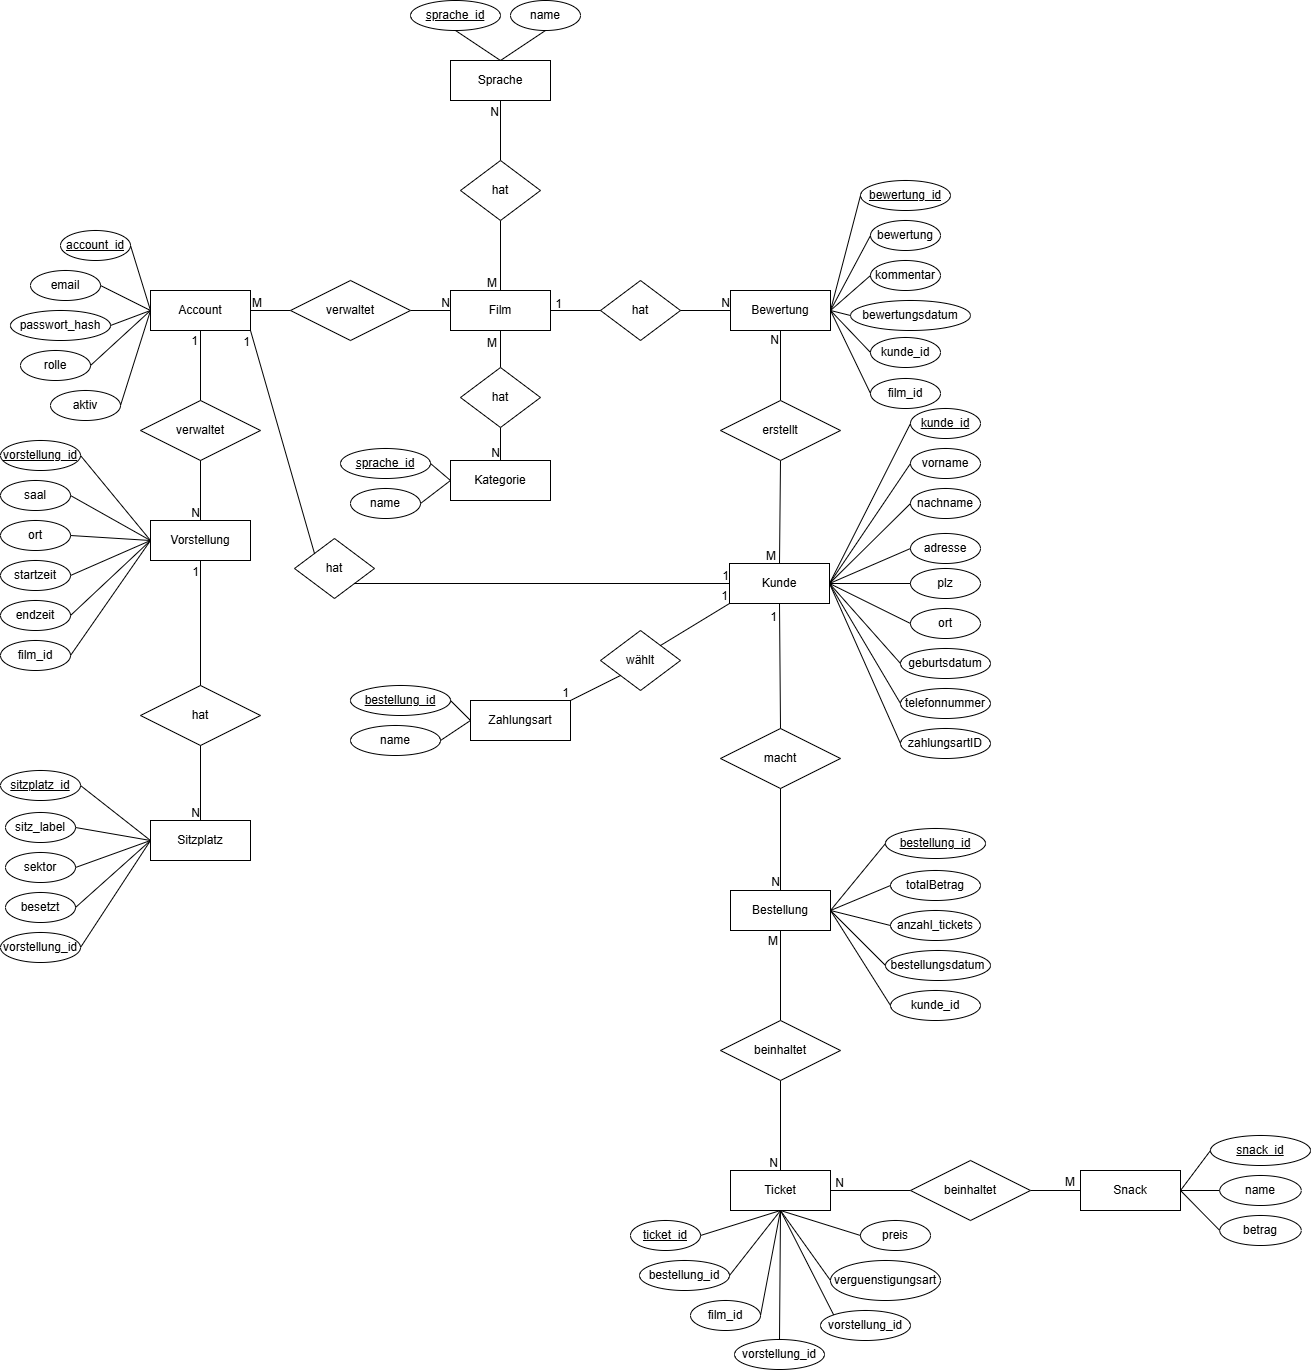
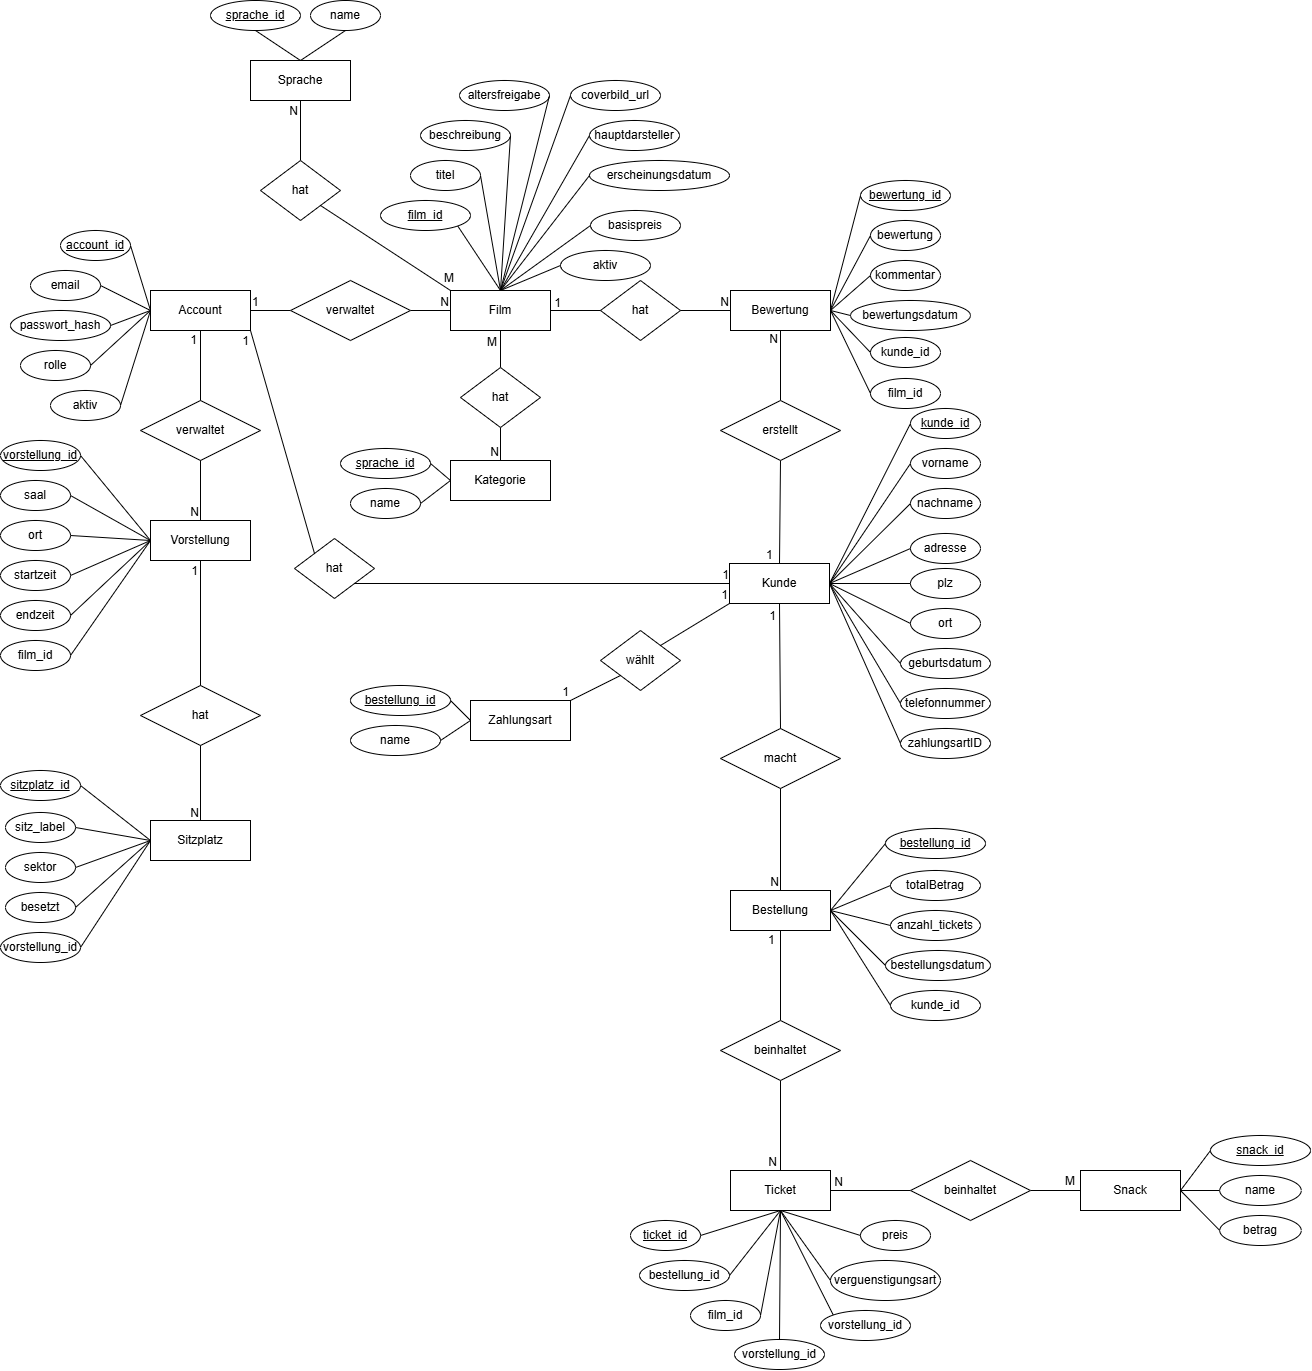
clean code, remove unused table from db

diff --git a/backend/seed.py b/backend/seed.py
@@ -13,7 +13,6 @@ from backend.models.orm import (
     FilmKategorie,
     FilmSprache,
     Film,
-    FilmlisteKunde,
     Kategorie,
     Kunde,
     KundenKategoriePraeferenz,
@@ -281,7 +280,7 @@ def seed_database() -> None:
         filme = _create_films(session, kategorien, sprachen)
         vorstellungen, sitzplaetze = _create_vorstellungen_and_seats(session, filme)
 
-        _create_association_rows(session, kunden, filme, kategorien, sprachen)
+        _create_association_rows(session, kunden, kategorien)
         bestellungen, tickets = _create_orders_and_tickets(session, kunden, filme, vorstellungen, sitzplaetze)
         _create_ticket_snacks(session, tickets, snacks)
         _create_ratings(session, kunden, filme)
@@ -488,30 +487,19 @@ def _create_vorstellungen_and_seats(
 def _create_association_rows(
     session: Session,
     kunden: list[Kunde],
-    filme: list[Film],
     kategorien: list[Kategorie],
-    sprachen: list[Sprache],
 ) -> None:
     items = [
         KundenKategoriePraeferenz(kunde_id=kunden[0].kunde_id, kategorie_id=kategorien[0].kategorie_id),
         KundenKategoriePraeferenz(kunde_id=kunden[1].kunde_id, kategorie_id=kategorien[1].kategorie_id),
-        FilmlisteKunde(kunde_id=kunden[0].kunde_id, film_id=filme[1].film_id),
     ]
     for relation in items:
-        if isinstance(relation, KundenKategoriePraeferenz):
-            exists = session.exec(
-                select(KundenKategoriePraeferenz).where(
-                    KundenKategoriePraeferenz.kunde_id == relation.kunde_id,
-                    KundenKategoriePraeferenz.kategorie_id == relation.kategorie_id,
-                )
-            ).first()
-        else:
-            exists = session.exec(
-                select(FilmlisteKunde).where(
-                    FilmlisteKunde.kunde_id == relation.kunde_id,
-                    FilmlisteKunde.film_id == relation.film_id,
-                )
-            ).first()
+        exists = session.exec(
+            select(KundenKategoriePraeferenz).where(
+                KundenKategoriePraeferenz.kunde_id == relation.kunde_id,
+                KundenKategoriePraeferenz.kategorie_id == relation.kategorie_id,
+            )
+        ).first()
         if exists is None:
             session.add(relation)
 

diff --git a/backend/repositories/kunde_repository.py b/backend/repositories/kunde_repository.py
@@ -4,7 +4,6 @@ from uuid import UUID
 from sqlmodel import Session, select
 
 from backend.models import Kunde, Zahlungsart
-from backend.models.orm.filmliste_kunde_sql import FilmlisteKunde
 from backend.models.orm.kunde_sql import Kunde as KundeORM
 from backend.models.orm.kunden_kategorie_praeferenz_sql import KundenKategoriePraeferenz
 from backend.models.orm.zahlungsart_sql import Zahlungsart as ZahlungsartORM
@@ -18,11 +17,6 @@ class KundeRepository:
             payment_row = session.get(ZahlungsartORM, row.zahlungsart_id)
             if payment_row is not None:
                 zahlungsart = Zahlungsart(zahlungsart_id=payment_row.zahlungsart_id, name=payment_row.name)
-
-        gespeicherte_filme = [
-            link.film_id
-            for link in session.exec(select(FilmlisteKunde).where(FilmlisteKunde.kunde_id == row.kunde_id)).all()
-        ]
         kategorien_praeferenzen = [
             link.kategorie_id
             for link in session.exec(
@@ -41,7 +35,6 @@ class KundeRepository:
             geburtsdatum=row.geburtsdatum,
             telefonnummer=row.telefonnummer,
             zahlungsart=zahlungsart,
-            gespeicherte_filme=gespeicherte_filme,
             kategorien_praeferenzen=kategorien_praeferenzen,
         )
 
@@ -59,13 +52,8 @@ class KundeRepository:
         return row.zahlungsart_id
 
     def _sync_preferences(self, session: Session, kunde: Kunde) -> None:
-        for link in session.exec(select(FilmlisteKunde).where(FilmlisteKunde.kunde_id == kunde.kunde_id)).all():
-            session.delete(link)
         for link in session.exec(select(KundenKategoriePraeferenz).where(KundenKategoriePraeferenz.kunde_id == kunde.kunde_id)).all():
             session.delete(link)
-
-        for film_id in kunde.gespeicherte_filme:
-            session.add(FilmlisteKunde(kunde_id=kunde.kunde_id, film_id=film_id))
         for kategorie_id in kunde.kategorien_praeferenzen:
             session.add(KundenKategoriePraeferenz(kunde_id=kunde.kunde_id, kategorie_id=kategorie_id))
 
@@ -116,14 +104,8 @@ class KundeRepository:
             row.geburtsdatum = kunde.geburtsdatum
             row.telefonnummer = kunde.telefonnummer
             row.zahlungsart_id = self._ensure_payment_type(session, kunde.zahlungsart)
-
-            for link in session.exec(select(FilmlisteKunde).where(FilmlisteKunde.kunde_id == kunde.kunde_id)).all():
-                session.delete(link)
             for link in session.exec(select(KundenKategoriePraeferenz).where(KundenKategoriePraeferenz.kunde_id == kunde.kunde_id)).all():
                 session.delete(link)
-
-            for film_id in kunde.gespeicherte_filme:
-                session.add(FilmlisteKunde(kunde_id=kunde.kunde_id, film_id=film_id))
             for kategorie_id in kunde.kategorien_praeferenzen:
                 session.add(KundenKategoriePraeferenz(kunde_id=kunde.kunde_id, kategorie_id=kategorie_id))
 
@@ -137,8 +119,6 @@ class KundeRepository:
             row = session.get(KundeORM, kunde_id)
             if row is None:
                 return
-            for link in session.exec(select(FilmlisteKunde).where(FilmlisteKunde.kunde_id == kunde_id)).all():
-                session.delete(link)
             for link in session.exec(select(KundenKategoriePraeferenz).where(KundenKategoriePraeferenz.kunde_id == kunde_id)).all():
                 session.delete(link)
             session.delete(row)

diff --git a/frontend/pages/profil.py b/frontend/pages/profil.py
@@ -53,21 +53,6 @@ def profil_page() -> None:
                         ui.label(label).classes("text-gray-400 text-xs uppercase")
                         ui.label(str(value)).classes("text-white")
 
-        # Saved films
-        if kunde.gespeicherte_filme:
-            with ui.card().classes("bg-gray-800 rounded-2xl p-6 mb-6"):
-                ui.label("Gespeicherte Filme").classes("text-xl font-bold text-white mb-4")
-                with ui.row().classes("flex-wrap gap-3"):
-                    for film_id in kunde.gespeicherte_filme:
-                        film = svc.film_service().get_film_details(film_id)
-                        if film:
-                            fid_str = str(film_id)
-                            ui.button(
-                                film.titel,
-                                icon="movie",
-                                on_click=lambda fid=fid_str: ui.navigate.to(f"/film/{fid}"),
-                            ).props("outline color=amber")
-
         # Order history
         with ui.card().classes("bg-gray-800 rounded-2xl p-6"):
             ui.label("Bestellungen").classes("text-xl font-bold text-white mb-4")

diff --git a/backend/services/user_service.py b/backend/services/user_service.py
@@ -70,20 +70,6 @@ class UserService:
         kunde.update_profile(data)
         return self.kunde_repo.update(kunde)
 
-    def save_movie(self, kunde_id: UUID, film_id: UUID) -> Kunde:
-        kunde = self.kunde_repo.get_by_id(kunde_id)
-        if kunde is None:
-            raise ValueError("Kunde wurde nicht gefunden.")
-        kunde.add_saved_film(film_id)
-        return self.kunde_repo.update(kunde)
-
-    def remove_saved_movie(self, kunde_id: UUID, film_id: UUID) -> Kunde:
-        kunde = self.kunde_repo.get_by_id(kunde_id)
-        if kunde is None:
-            raise ValueError("Kunde wurde nicht gefunden.")
-        kunde.remove_saved_film(film_id)
-        return self.kunde_repo.update(kunde)
-
     def add_category_preference(self, kunde_id: UUID, kategorie_id: UUID) -> Kunde:
         kunde = self.kunde_repo.get_by_id(kunde_id)
         if kunde is None:

diff --git a/backend/models/kunde.py b/backend/models/kunde.py
@@ -17,7 +17,6 @@ class Kunde:
     geburtsdatum: date = field(default_factory=date.today)
     telefonnummer: str = ""
     zahlungsart: Zahlungsart | None = None
-    gespeicherte_filme: list[UUID] = field(default_factory=list)
     kategorien_praeferenzen: list[UUID] = field(default_factory=list)
 
     def full_name(self) -> str:
@@ -34,14 +33,6 @@ class Kunde:
 
     def can_purchase(self, min_age: int = 0) -> bool:
         return self.age() >= min_age
-
-    def add_saved_film(self, film_id: UUID) -> None:
-        if film_id not in self.gespeicherte_filme:
-            self.gespeicherte_filme.append(film_id)
-
-    def remove_saved_film(self, film_id: UUID) -> None:
-        if film_id in self.gespeicherte_filme:
-            self.gespeicherte_filme.remove(film_id)
 
     def add_category_preference(self, kategorie_id: UUID) -> None:
         if kategorie_id not in self.kategorien_praeferenzen:

diff --git a/config/database.py b/config/database.py
@@ -8,6 +8,7 @@ engine = create_engine(DATABASE_URL, echo=False)
 def create_db_and_tables():
     SQLModel.metadata.create_all(engine)
     _migrate_account_split()
+    _drop_legacy_tables()
 
 
 def _migrate_account_split() -> None:
@@ -46,6 +47,11 @@ def _migrate_account_split() -> None:
                 "UPDATE kunde SET account_id = ? WHERE kunde_id = ?",
                 (resolved_account_id, kunde_id),
             )
+
+
+def _drop_legacy_tables() -> None:
+    with engine.begin() as connection:
+        connection.exec_driver_sql("DROP TABLE IF EXISTS filmliste_kunde")
 
 def get_session():
     with Session(engine) as session:

diff --git a/backend/models/orm/film_sql.py b/backend/models/orm/film_sql.py
@@ -8,12 +8,10 @@ from sqlmodel import Field, Relationship, SQLModel
 
 from .film_kategorie_sql import FilmKategorie
 from .film_sprache_sql import FilmSprache
-from .filmliste_kunde_sql import FilmlisteKunde
 
 if TYPE_CHECKING:
     from .bewertung_sql import Bewertung
     from .kategorie_sql import Kategorie
-    from .kunde_sql import Kunde
     from .sprache_sql import Sprache
     from .ticket_sql import Ticket
     from .vorstellung_sql import Vorstellung
@@ -36,5 +34,4 @@ class Film(SQLModel, table=True):
     kategorien: list["Kategorie"] = Relationship(back_populates="filme", link_model=FilmKategorie)
     vorstellungen: list["Vorstellung"] = Relationship(back_populates="film")
     bewertungen: list["Bewertung"] = Relationship(back_populates="film")
-    gespeichert_von: list["Kunde"] = Relationship(back_populates="gespeicherte_filme", link_model=FilmlisteKunde)
     tickets: list["Ticket"] = Relationship(back_populates="film")

diff --git a/backend/models/orm/kunde_sql.py b/backend/models/orm/kunde_sql.py
@@ -5,8 +5,6 @@ from sqlmodel import Field, Relationship, SQLModel
 
 from .bestellung_sql import Bestellung
 from .bewertung_sql import Bewertung
-from .film_sql import Film
-from .filmliste_kunde_sql import FilmlisteKunde
 from .kategorie_sql import Kategorie
 from .kunden_kategorie_praeferenz_sql import KundenKategoriePraeferenz
 from .zahlungsart_sql import Zahlungsart
@@ -27,7 +25,6 @@ class Kunde(SQLModel, table=True):
     zahlungsart_id: UUID | None = Field(default=None, foreign_key="zahlungsart.zahlungsart_id")
 
     zahlungsart: Zahlungsart = Relationship(back_populates="kunden")
-    gespeicherte_filme: list[Film] = Relationship(back_populates="gespeichert_von", link_model=FilmlisteKunde)
     kategorien_praeferenzen: list[Kategorie] = Relationship(
         back_populates="interessenten",
         link_model=KundenKategoriePraeferenz,

diff --git a/backend/repositories/film_repository.py b/backend/repositories/film_repository.py
@@ -9,7 +9,6 @@ from backend.models.orm.film_kategorie_sql import FilmKategorie
 from backend.models.orm.film_sprache_sql import FilmSprache
 from backend.models.orm.film_sql import Film as FilmORM
 from backend.models.orm.bewertung_sql import Bewertung as BewertungORM
-from backend.models.orm.filmliste_kunde_sql import FilmlisteKunde
 from backend.models.orm.kategorie_sql import Kategorie
 from backend.models.orm.sitzplatz_sql import Sitzplatz as SitzplatzORM
 from backend.models.orm.sprache_sql import Sprache
@@ -242,8 +241,6 @@ class FilmRepository:
                 session.delete(snack_line)
             for ticket in session.exec(select(TicketORM).where(TicketORM.film_id == film_id)).all():
                 session.delete(ticket)
-            for link in session.exec(select(FilmlisteKunde).where(FilmlisteKunde.film_id == film_id)).all():
-                session.delete(link)
             for link in session.exec(select(FilmSprache).where(FilmSprache.film_id == film_id)).all():
                 session.delete(link)
             for link in session.exec(select(FilmKategorie).where(FilmKategorie.film_id == film_id)).all():

diff --git a/backend/models/__init__.py b/backend/models/__init__.py
@@ -6,7 +6,6 @@ from .enums import Verguensigungsart
 from .film import Film
 from .film_kategorie import FilmKategorie
 from .film_sprache import FilmSprache
-from .filmliste_kunde import FilmlisteKunde
 from .kategorie import Kategorie
 from .kunde import Kunde
 from .kunden_kategorie_praeferenz import KundenKategoriePraeferenz
@@ -25,7 +24,6 @@ __all__ = [
     "Film",
     "FilmKategorie",
     "FilmSprache",
-    "FilmlisteKunde",
     "Kategorie",
     "Kunde",
     "KundenKategoriePraeferenz",

diff --git a/backend/models/orm/__init__.py b/backend/models/orm/__init__.py
@@ -4,7 +4,6 @@ from .bestellung_sql import Bestellung
 from .film_kategorie_sql import FilmKategorie
 from .film_sprache_sql import FilmSprache
 from .film_sql import Film
-from .filmliste_kunde_sql import FilmlisteKunde
 from .kategorie_sql import Kategorie
 from .kunde_sql import Kunde
 from .kunden_kategorie_praeferenz_sql import KundenKategoriePraeferenz
@@ -23,7 +22,6 @@ __all__ = [
     "FilmKategorie",
     "FilmSprache",
     "Film",
-    "FilmlisteKunde",
     "Kategorie",
     "Kunde",
     "KundenKategoriePraeferenz",